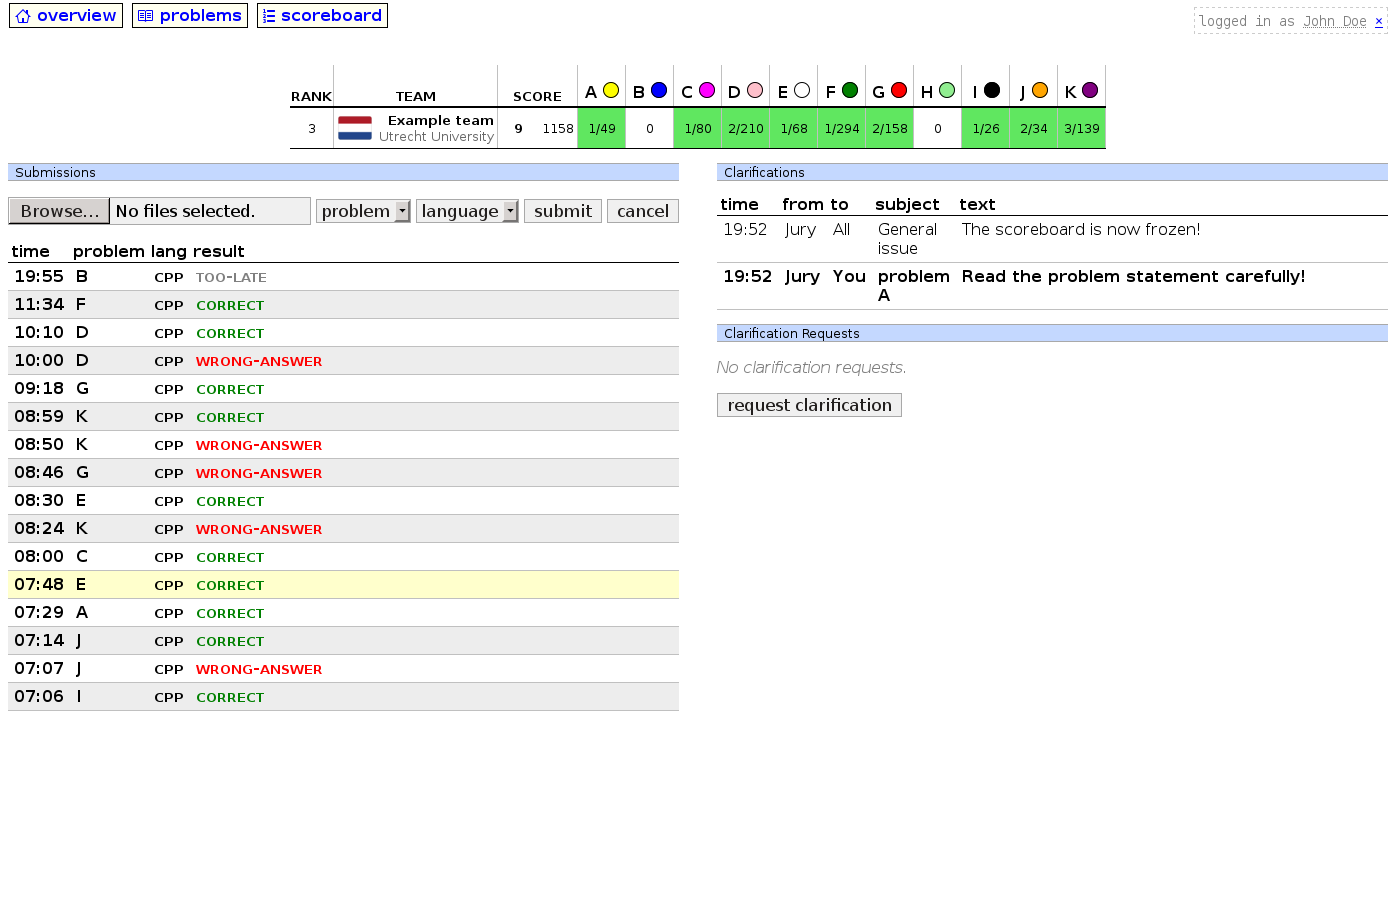
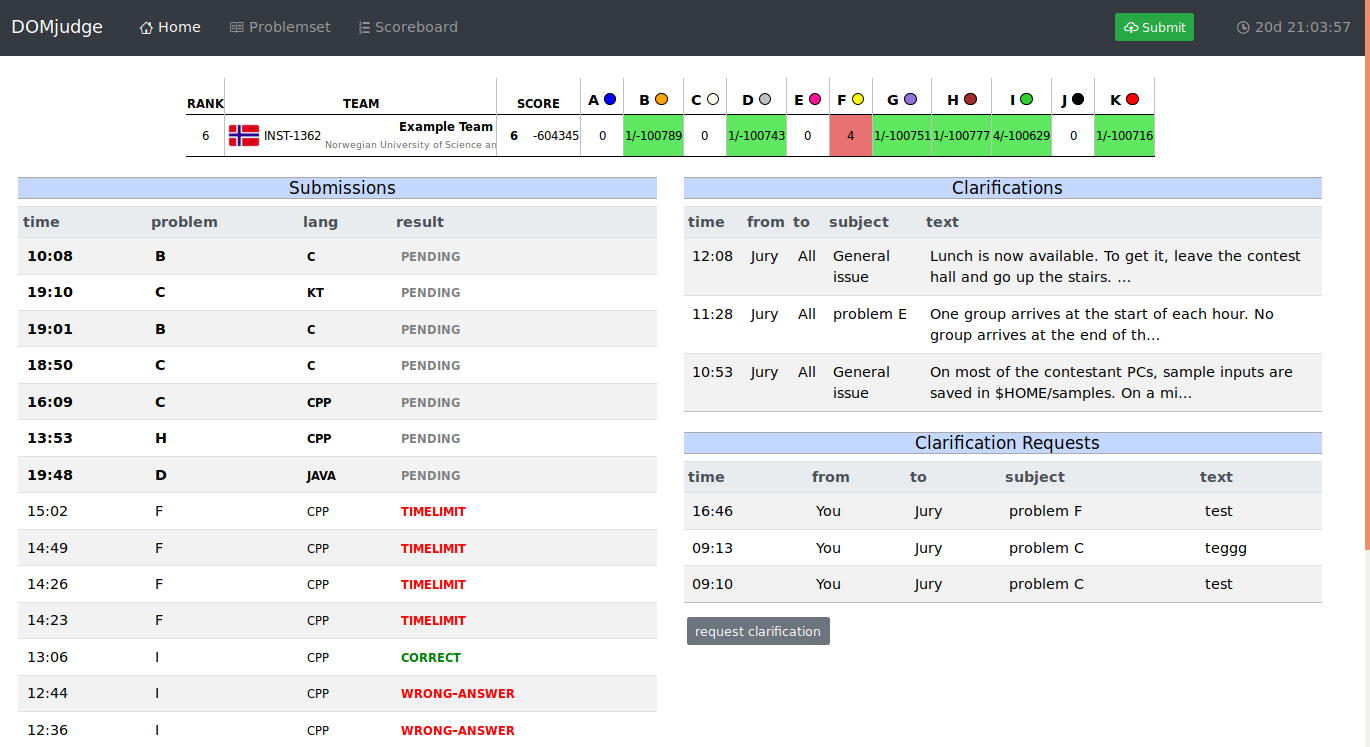
Update team manual for changed layout.

diff --git a/doc/team/team-manual-NL.tex b/doc/team/team-manual-NL.tex
@@ -68,9 +68,9 @@ de programmeertaal, dan worden deze automatisch gedetecteerd. Voor de
 complete documentatie en alle opties, zie \cmd{submit --help}.
 }
 \item[Web-Interface]
-Vanaf je teampagina op \url{\BASEURL team} kun je bestand(en)
-selecteren met de \textbf{browse} knop in de linker kolom en deze met
-de \textbf{submit} knop insturen.
+Op je teampagina op \url{\BASEURL team}, klik de groene \textbf{Submit}-
+knop. Vervolgens kun je bestand(en) selecteren met de \textbf{browse}-knop
+en deze met de \textbf{submit} knop insturen.
 Standaard wordt het probleem uit het deel van de bestandsnaam v\'o\'or
 de punt gehaald en de programmeertaal uit de extensie.
 
@@ -146,9 +146,10 @@ submitprogramma niet meer correct functioneert.
 
 \subsection{Web-interface}
 
-Vanaf je teampagina \url{\BASEURL team} kun je oplossingen insturen
-door een of meer bestanden te selecteren met de \textbf{browse} knop in de
-linker kolom. \DOMjudge probeert het probleem te detecteren uit de
+Vanaf je teampagina \url{\BASEURL team} kun je op de groene \textbf{Submit}-knop
+drukken in de menubalk. Hier kun je oplossingen insturen
+door een of meer bestanden te selecteren met de \textbf{browse}-knop.
+\DOMjudge probeert het probleem te detecteren uit de
 basis van de eerste bestandsnaam (v\'o\'or de punt) en de programmeertaal uit
 de extensie. Als dat niet lukt, kun je deze handmatig selecteren.
 Bestandsnamen moeten beginnen met een alfanumeriek teken en

diff --git a/doc/team/team-manual.tex b/doc/team/team-manual.tex
@@ -62,8 +62,8 @@ your language, then these will automatically be detected. For a
 complete reference of all options and examples, see \cmd{submit --help}.
 }
 \item[Web interface]
-From your team page, \url{\BASEURL team}, click the file selection
-button in the left column and select the file(s) you want to submit.
+From your team page, \url{\BASEURL team}, click the green Submit button
+in the menu bar. Select the file(s) you want to submit.
 By default, the problem is selected from the base of the (first)
 filename and the language from the extension.
 \end{description}
@@ -136,7 +136,8 @@ function correctly.
 \subsection{Web interface}
 
 Solutions can be submitted from the web interface at \url{\BASEURL team}.
-In the left column click the file selection button and select one or
+Click the green Submit button at the menu bar on every page.
+Click the file selection button and select one or
 multiple files for submission. \DOMjudge will try to determine the
 problem and language from the base and extension of the (first) filename.
 Otherwise, select the appropriate values.
